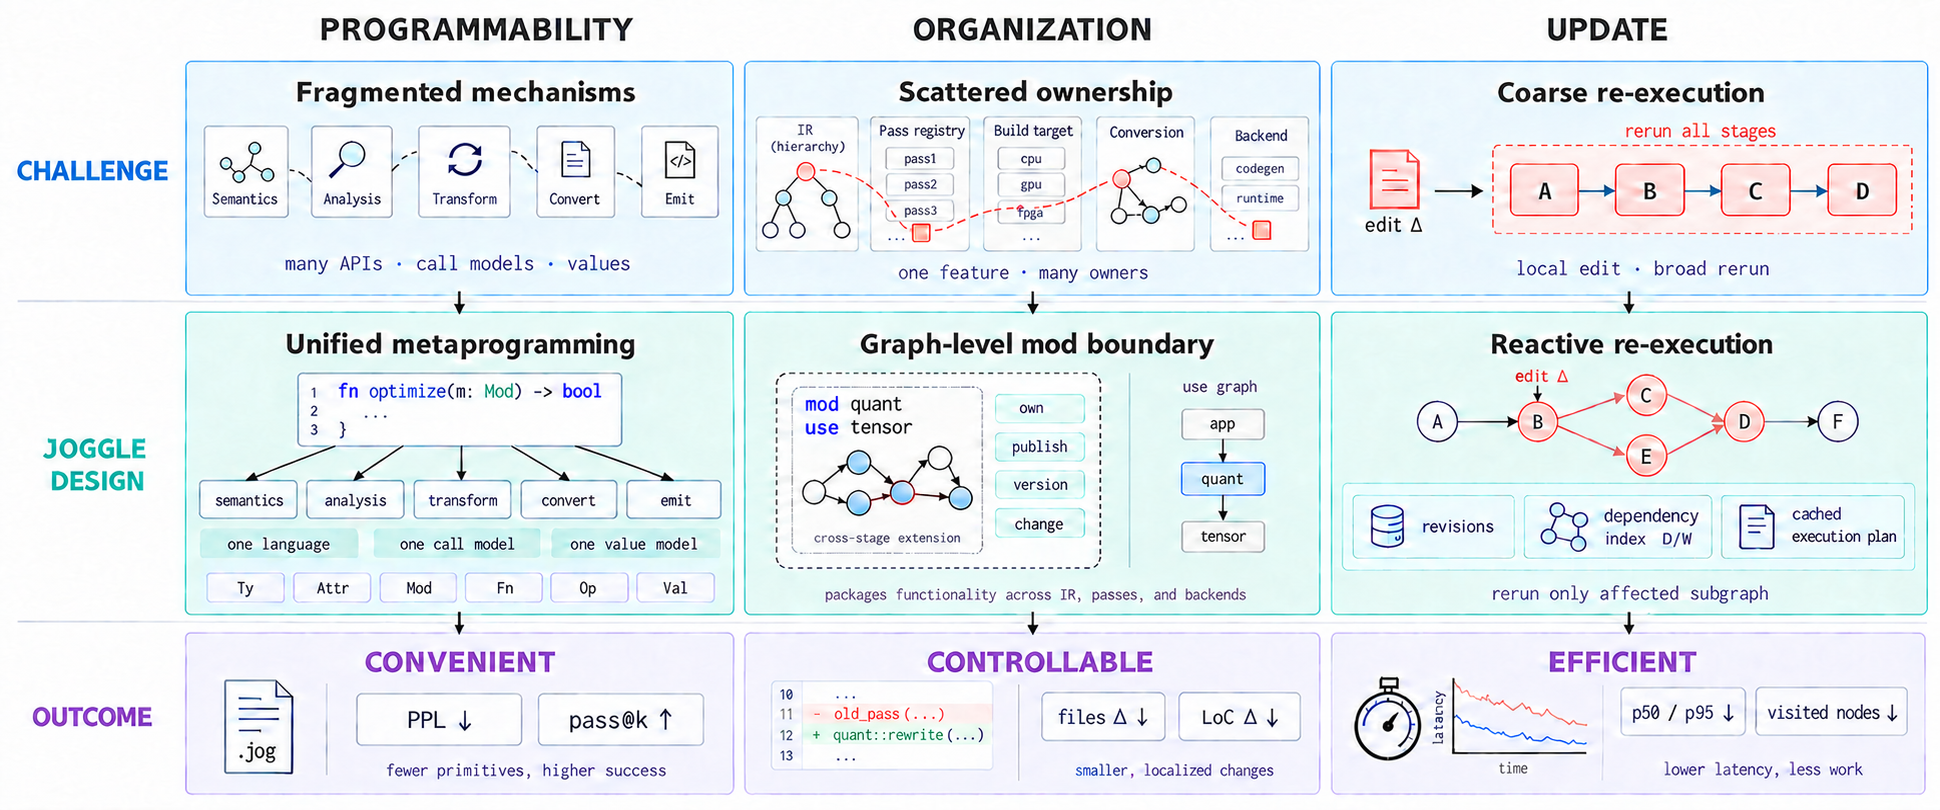
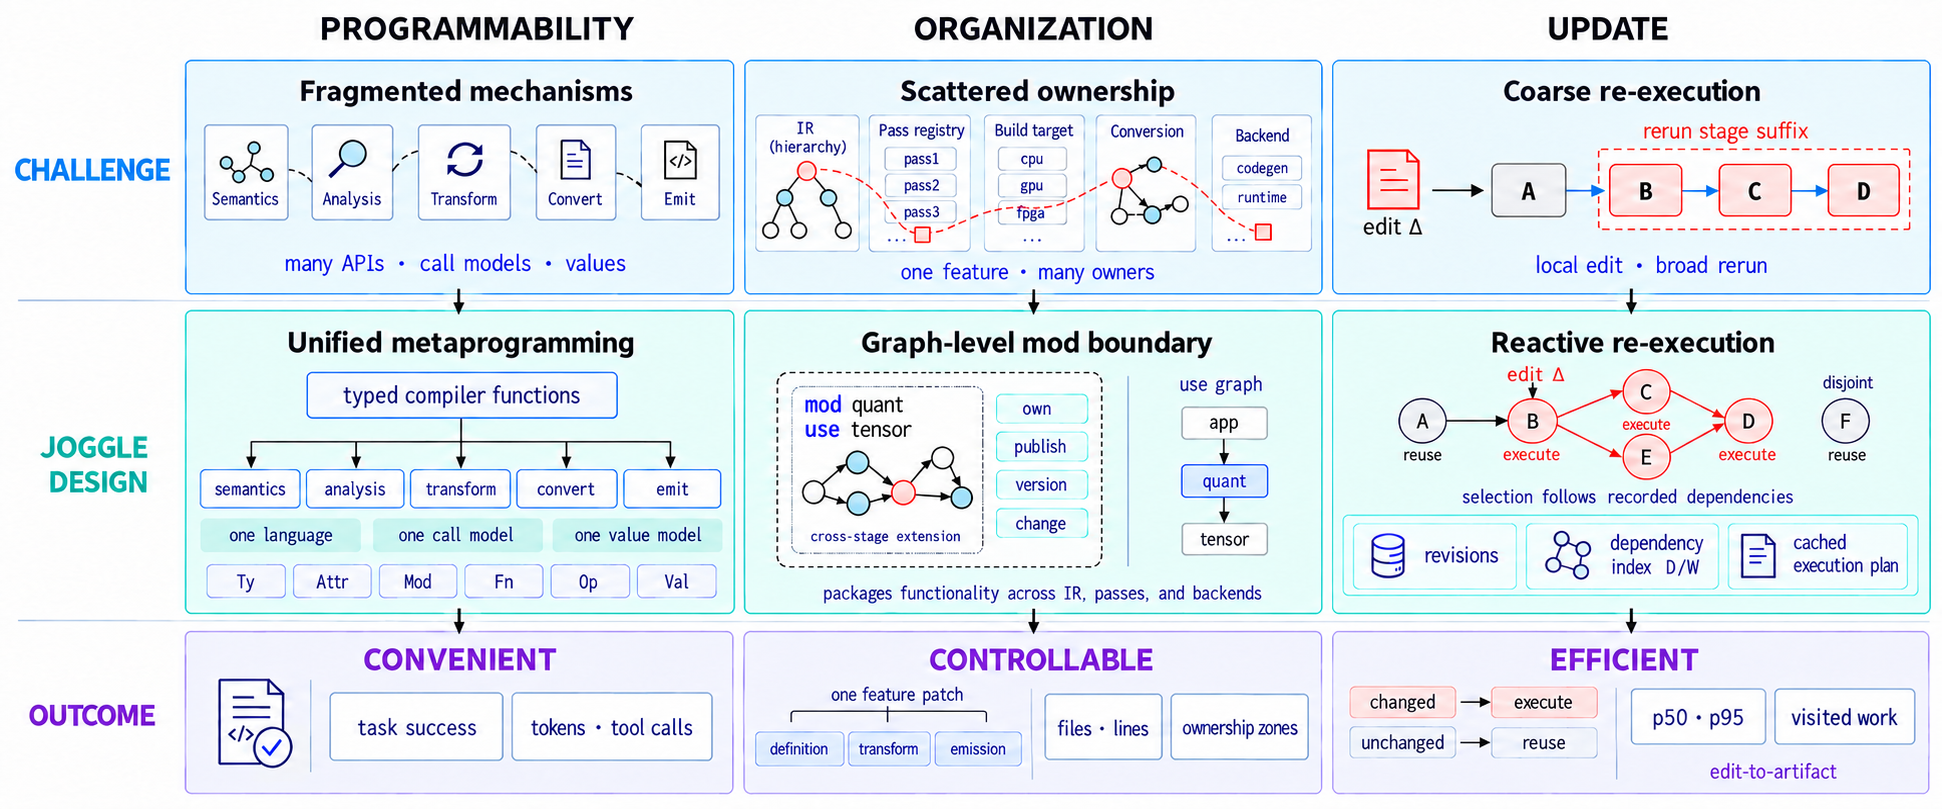
Align thesis figure with evaluation endpoints

Changed region(s): [[0.0, 0.0, 1.0, 0.9889]]

diff --git a/paper/sections/01-introduction.tex b/paper/sections/01-introduction.tex
@@ -32,12 +32,12 @@ usually track whole pass results, so a small edit can repeat conversions and
 analyses whose observations remain valid. These are programmability,
 organization, and update-efficiency problems, respectively.
 
-Figure~\ref{fig:thesis-map} states the paper's argument as three vertical
-chains. Each column connects a development problem to one Joggle mechanism and
-one measurable outcome. This 3$\times$3 mapping also aligns the evaluation with
-the design: held-out extension tasks measure predictability and executable
-completion, paired patches measure change footprint, and controlled edits
-measure update latency and executed work.
+Figure~\ref{fig:thesis-map} connects each development problem to a Joggle
+mechanism and its evaluation endpoint. Extension tasks measure executable
+completion and agent effort; paired patches measure change footprint;
+controlled edits measure update latency and executed work. Together, these
+comparisons link the extension interface, ownership boundary, and execution
+model to their effects on compiler development.
 
 \begin{figure*}[t]
   \centering

diff --git a/paper/sections/04-evaluation.tex b/paper/sections/04-evaluation.tex
@@ -172,7 +172,7 @@ table. Operator and model results share one figure and one CSV, with up to
 
 For the pinned operator configuration in Appendix~\ref{sec:operator-data},
 all 24 operators pass the numerical oracle in both Joggle paths. The
-optimization pack reduces geometric mean latency by $1.81\times$ relative to
+optimization pack achieves a geometric mean speedup of $1.81\times$ over
 the base path. Relative to ONNX Runtime, the base and optimized latency ratios
 are $9.08\times$ and $5.02\times$, respectively; the optimized path is faster
 on three operators. The effect varies across operators: the $256\times256$

diff --git a/paper/README.md b/paper/README.md
@@ -53,29 +53,33 @@ usually track whole pass results, so a small edit can repeat conversions and
 analyses whose observations remain valid. These are programmability,
 organization, and update-efficiency problems, respectively.
 
-Figure 1 states the paper's argument as three vertical chains. Each column
-connects a development problem to one Joggle mechanism and one measurable
-outcome. This 3×3 mapping also aligns the evaluation with the design: held-out
-extension tasks measure predictability and executable completion, paired
-patches measure change footprint, and controlled edits measure update latency
-and executed work.
+Figure 1 connects each development problem to a Joggle mechanism and its
+evaluation endpoint. Extension tasks measure executable completion and agent
+effort; paired patches measure change footprint; controlled edits measure
+update latency and executed work. Together, these comparisons link the
+extension interface, ownership boundary, and execution model to their effects
+on compiler development.
 
 <!-- FIGURE 1 PROMPT — A dense two-column 3×3 systems-paper argument map. The
 columns are PROGRAMMABILITY, ORGANIZATION, and UPDATE; the rows are CHALLENGE,
 JOGGLE DESIGN, and OUTCOME. Each column reads top to bottom with no cross-column
 arrows. Programmability: fragmented Semantics/Analysis/Transform/Convert/Emit
-mechanisms → Unified metaprogramming using `fn optimize(m: Mod)`, one language,
+mechanisms → Unified metaprogramming using typed compiler functions, one language,
 one call model, one value model, and `Ty Attr Mod Fn Op Val` → CONVENIENT with
-`agent success ↑` and `tokens/tool calls ↓`. Organization: one feature scattered across hierarchical
+`task success` and `tokens · tool calls`. Organization: one feature scattered across hierarchical
 IR, pass registry, build target, conversion, and backend → Graph-level mod
 boundary with `mod quant`, `use tensor`, own/publish/version/change tabs, and an
-app→quant→tensor use graph → CONTROLLABLE with `files Δ ↓` and `LoC Δ ↓`.
-Update: local edit causing A→B→C→D rerun → Reactive re-execution over an
+app→quant→tensor use graph → CONTROLLABLE with `files · lines` and `ownership
+zones`; depict a feature patch as filename bars without invented source code.
+Update: local edit at B causing suffix B→C→D rerun → Reactive re-execution over an
 affected subgraph using revisions, dependency index `D/W`, and cached execution
-plan → EFFICIENT with `p50 / p95 ↓` and `visited nodes ↓`. Use compact technical
+plan → EFFICIENT with `p50 · p95`, `visited work`, and `edit-to-artifact`.
+Use a changed→execute / unchanged→reuse ledger instead of synthetic curves.
+The outcome row names measured endpoints without displaying invented results.
+Use compact technical
 glyphs, thin dark connectors, white background, restrained blue/teal/lavender,
 and coral only for changed state. Use only the named Joggle constructs; omit
-step numbers, numbered circles, red numeric labels, gradients, shadows, and
+source snippets, line numbers, numbered circles, red numeric labels, gradients, shadows, and
 decorative people. -->
 
 *Figure 1: Joggle maps three extension challenges to system mechanisms and
@@ -769,8 +773,8 @@ table. Operator and model results share one figure and one CSV, with up to
 11,700 timed rows.
 
 For the pinned operator configuration in Appendix A, all 24 operators pass the
-numerical oracle in both Joggle paths. The optimization pack reduces geometric
-mean latency by 1.81× relative to the base path. Relative to ONNX Runtime, the
+numerical oracle in both Joggle paths. The optimization pack achieves a
+geometric mean speedup of 1.81× over the base path. Relative to ONNX Runtime, the
 base and optimized latency ratios are 9.08× and 5.02×, respectively; the
 optimized path is faster on three operators. The effect varies across
 operators: the 256×256 matrix multiply improves by 12.83× over the base path,
